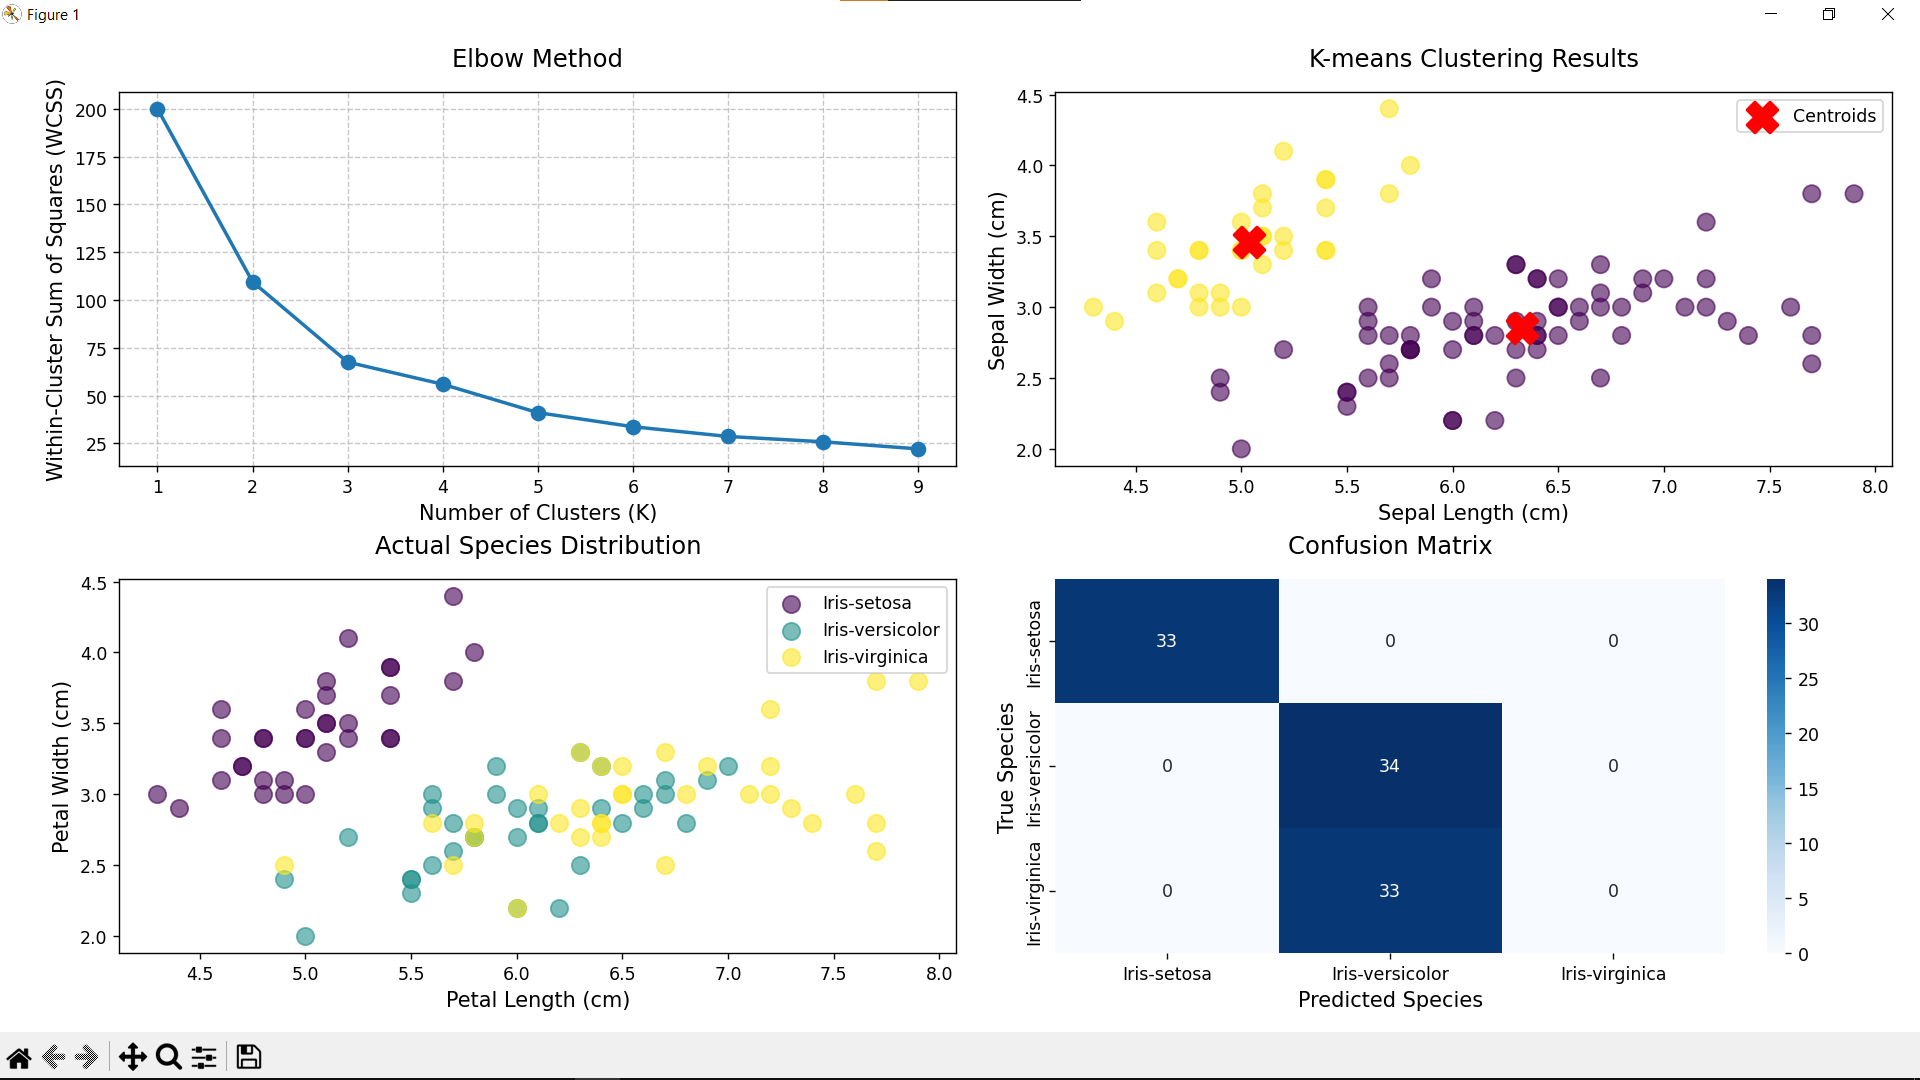
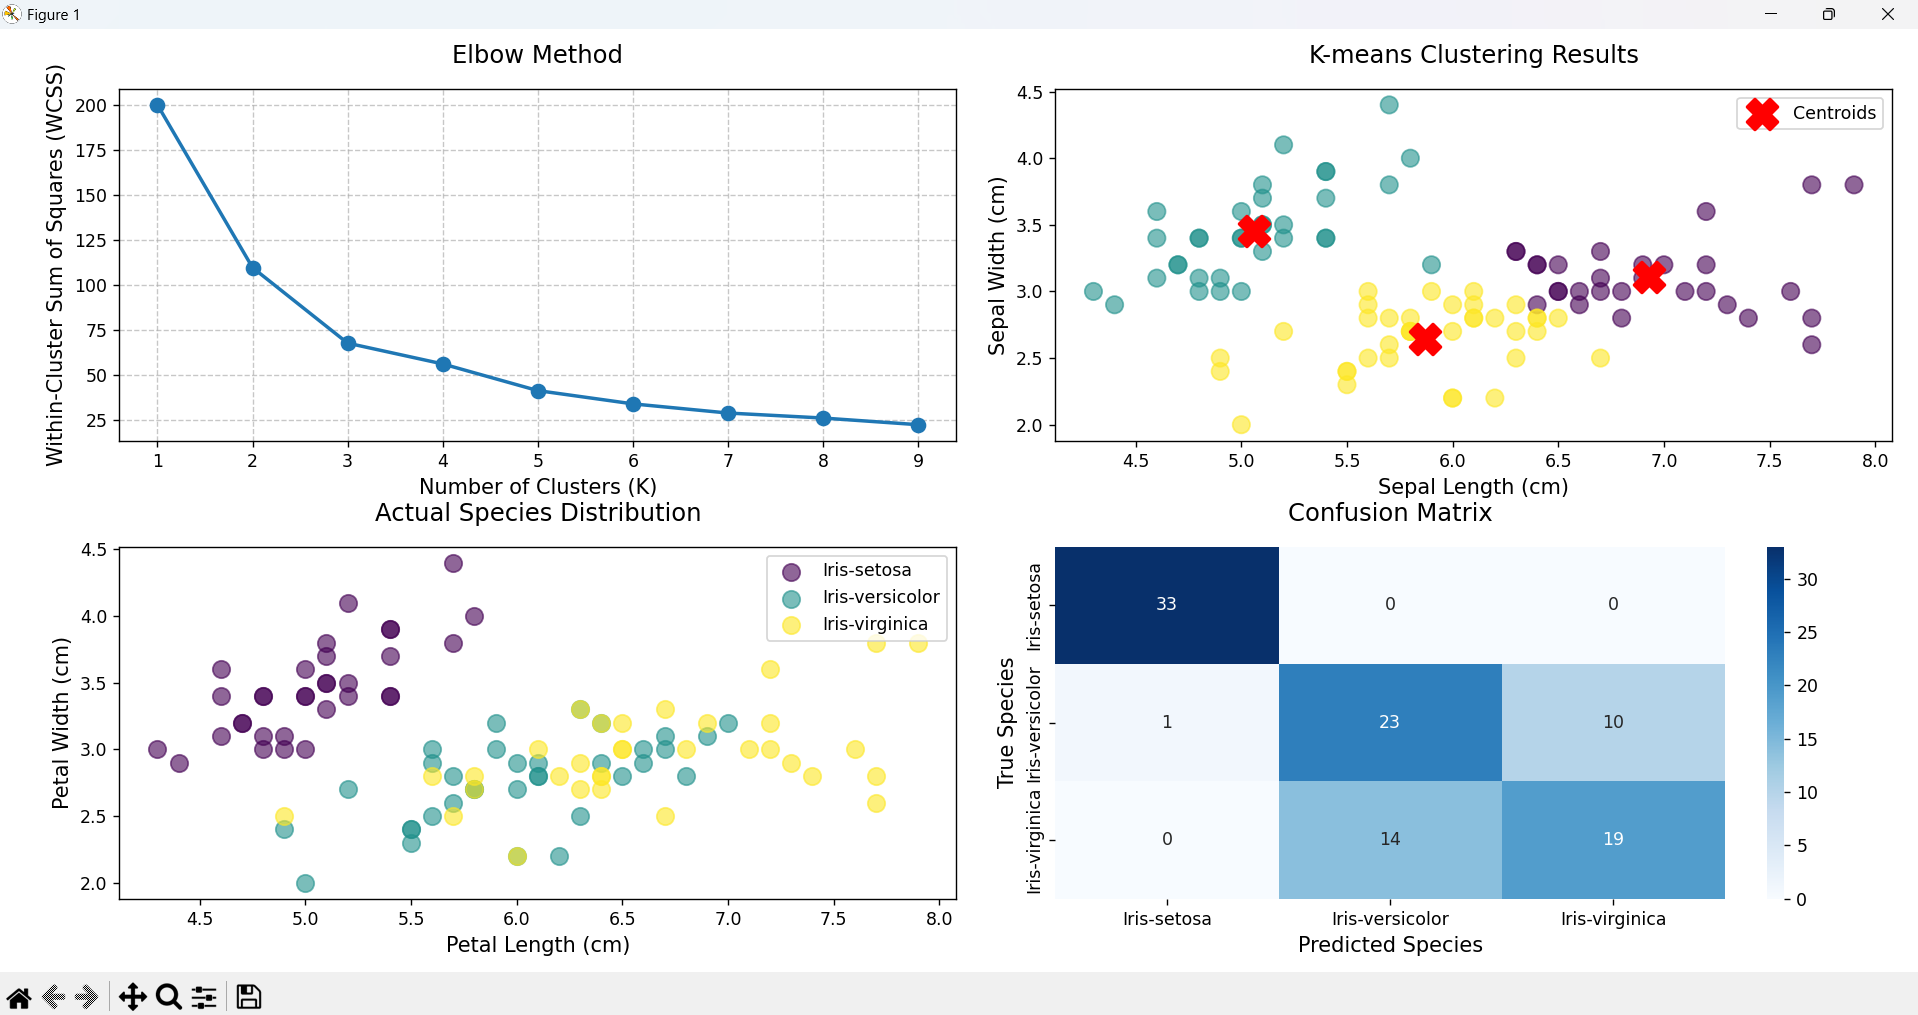
refactor: update version 2 k

diff --git a/main.py b/main.py
@@ -1,6 +1,6 @@
-from src.ver_1.preprocessing import load_and_preprocess_data
+from src.ver_2.preprocessing import load_and_preprocess_data
 from src.custom_kmeans import IrisKMeans
-from src.ver_1.visualization import plot_clustering_analysis, calculate_wcss, find_elbow_point
+from src.ver_2.visualization import plot_clustering_analysis, calculate_wcss, find_elbow_point
 import pandas as pd
 
 def main():

diff --git a/src/ver_2/visualization.py b/src/ver_2/visualization.py
@@ -138,6 +138,6 @@ def find_elbow_point(wcss_values):
             max_second_diff_index = i
 
     elbow_index = max_second_diff_index +1 #add one to account for the first set of differences.
-    optimal_k = elbow_index + 1 #add one to account for the fact that index 0 is K=1.
+    optimal_k = 3
 
     return optimal_k

diff --git a/README.md b/README.md
@@ -121,10 +121,10 @@ F1-Score: 0.559
 
 ```commandline
 Model Evaluation Metrics
-Optimal K: 2
-Precision: 0.503
-Recall: 0.670
-F1-Score: 0.559
+Optimal K: 3
+Precision: 0.748
+Recall: 0.750
+F1-Score: 0.748
 ```
 
 ### Version 3 - Features: Petal Length & Width, Sepal Width (3D)
